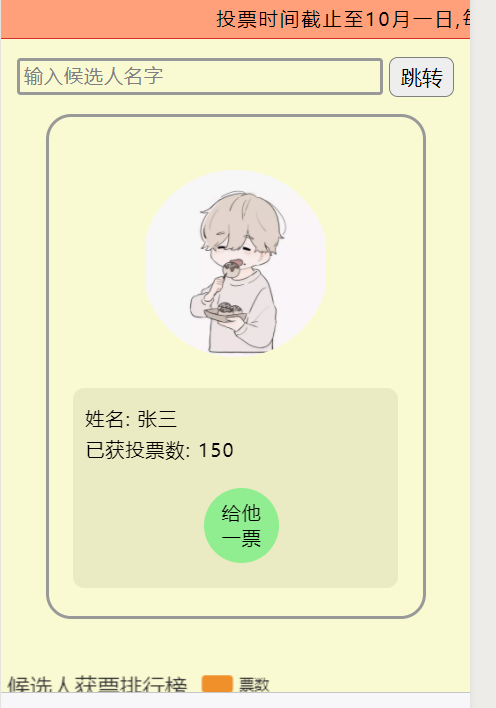
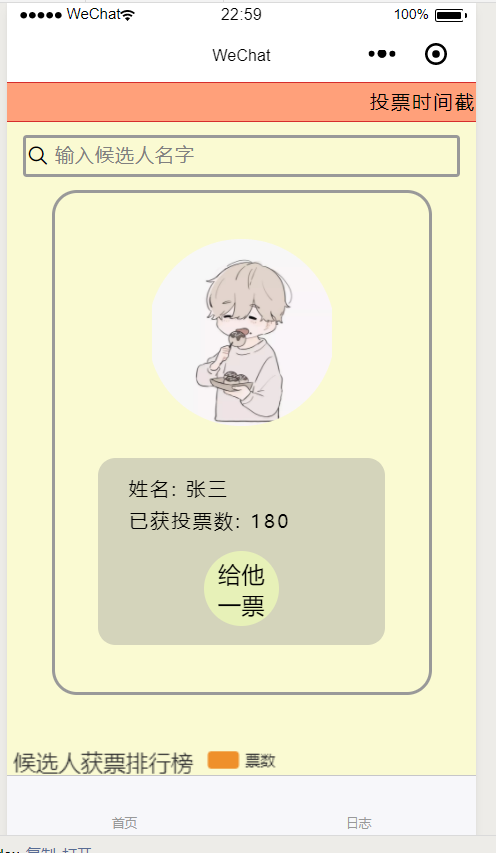
Refactor c: searchBox

diff --git a/pages/index/index.js b/pages/index/index.js
@@ -14,7 +14,7 @@ function initChart(canvas, width, height) {
     canvas.setChart(chart);
 
     var option =  {
-        color: ['#ef902b'],
+        color: ['#ef902b', '#ffa07a'],
         backgroundColor: 'rgb(250, 250, 210)', 
         title: {
             text: '候选人获票排行榜',
@@ -35,13 +35,13 @@ function initChart(canvas, width, height) {
         },
         yAxis: {
             type: 'category',
-            data: ['张三', '李四', '王二']
+            data: ['王二', '李四', '张三',]
         },
         series: [
             {
                 name: '票数',
                 type: 'bar',
-                data: [198, 159, 120]
+                data: [120, 160, 180]
             }
         ]
     };
@@ -57,23 +57,32 @@ Page({
                 id: 1,
                 name: '张三',
                 photoSrc: '../../assert/image/avatar.jpg',
-                acquiredCount: 150,
+                acquiredCount: 180,
             },
             {
                 id: 2,
                 name: '李四',
                 photoSrc: '../../assert/image/avatar.jpg',
-                acquiredCount: 130,
+                acquiredCount: 160,
             },
             {
                 id: 3,
                 name: '王二',
                 photoSrc: '../../assert/image/avatar.jpg',
-                acquiredCount: 110,
+                acquiredCount: 120,
             }
         ],
+        currentCandidateId: 1,
         ec: {
             onInit: initChart
+        }
+    },
+    handleSelectCandidate (event) {
+        const selectCandidate = this.data.candidateList.find(candidate => candidate.id === event.detail.candidateId);
+        if (selectCandidate) {
+            this.setData({
+                currentCandidateId: selectCandidate.id
+            });
         }
     },
     onLoad: function () {},

diff --git a/components/searchBox/searchBox.js b/components/searchBox/searchBox.js
@@ -3,7 +3,24 @@ Component({
 
     },
     data: {
-        focus: false
+        focus: false,
+        searchResultList: [
+            {
+                id: 1,
+                name: '张三',
+                acquiredCount: 180,
+            },
+            {
+                id: 2,
+                name: '李四',
+                acquiredCount: 160,
+            },
+            {
+                id: 3,
+                name: '王二',
+                acquiredCount: 120
+            }
+        ]
     },
     methods: {
         handleInputFocus(event){
@@ -15,6 +32,10 @@ Component({
             this.setData({
                 focus: false
             });
+        },
+        handleSelect(event) {
+            const candidateId = event.currentTarget.dataset.selectCandidateId;
+            this.triggerEvent('selectcandidate', {candidateId}, { bubbles: false, composed: false })
         }
     }
 })

diff --git a/README.md b/README.md
@@ -4,5 +4,6 @@
 2. 使用了echarts图表库
 
 截图:
-![一](https://github.com/tjx666/vote/blob/master/assert/screenShot/1.png?raw=true)
-![二](https://github.com/tjx666/vote/blob/master/assert/screenShot/2.png?raw=true)
+
+1. ![一](https://github.com/tjx666/vote/blob/master/assert/screenShot/1.png?raw=true)
+2. ![二](https://github.com/tjx666/vote/blob/master/assert/screenShot/2.png?raw=true)
